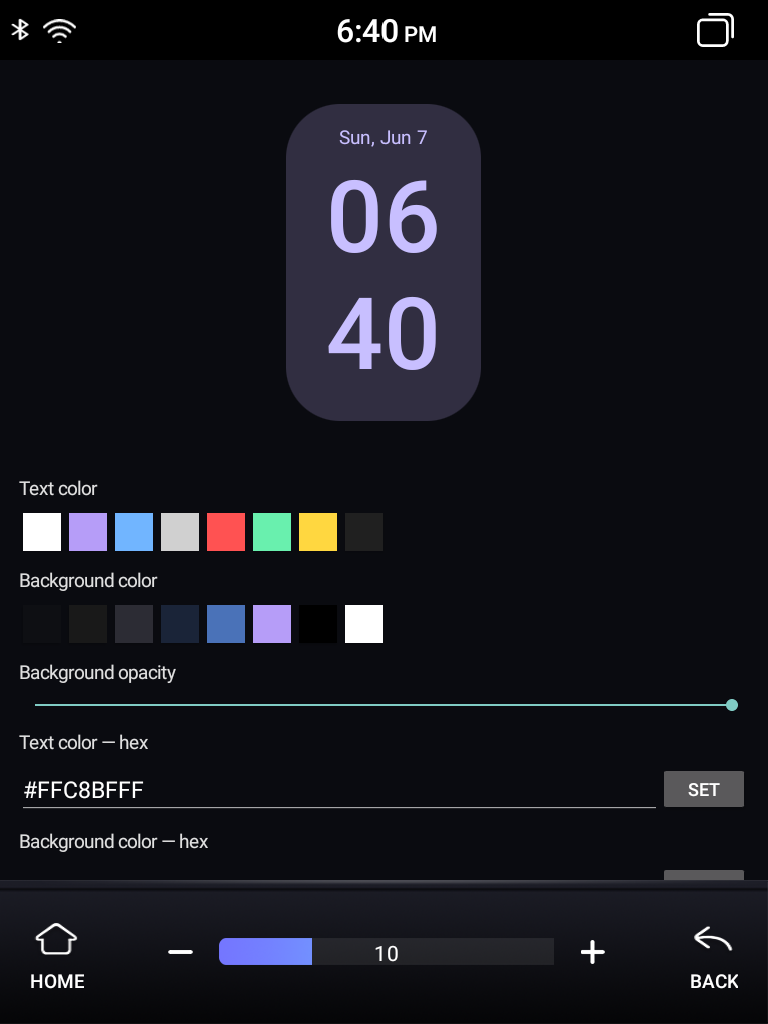
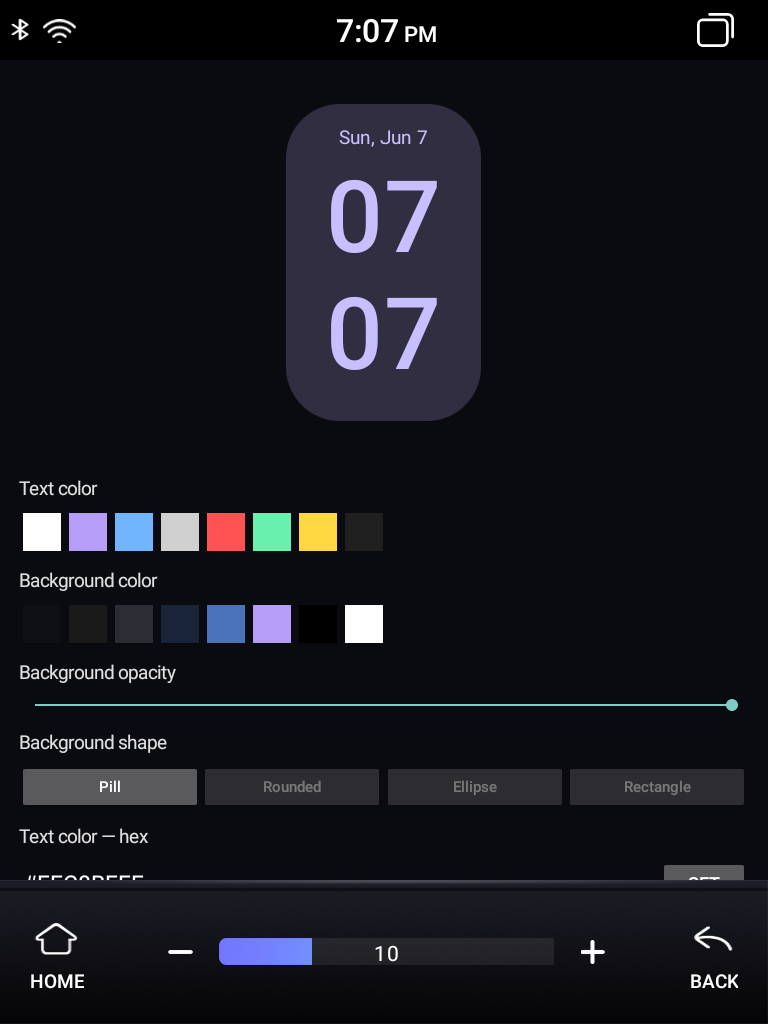
Clock bg shapes + QS brightness gradient + wallpaper & QS docs
- Clock widget: background SHAPE option (Pill/Rounded/Ellipse/Rectangle)
  via PreviewActivity selector + ClockWidget.SHAPES + clock_shape_*.xml.
- SystemUI QS brightness slider: stock solid #41A4F7 blue -> inline
  purple->cyan gradient (#7176FA -> #6CDDFA), pure resource edit; original
  dex preserved. The QS active-tile circle is framework-accent-bound
  (colorAccent via Theme.DeviceDefault.QuickSettings; QSTileBaseView's
  mColorActive/getCircleColor are dead code) so it's deliberately left
  blue - see docs/03-systemui.md "Quick Settings accent".
- Add artifacts/wallpaper/ (7870 home wallpaper: full-res + 768x1024).
- Add artifacts/systemui-qs/brightness_progress_drawable.xml + README.
- Refresh docs (09 clock shapes/hex/picker; 03 QS accent) + screenshots
  (clock_config shape selector, quicksettings brightness gradient).

diff --git a/artifacts/clockwidget/java/com/fyt7862/clock/PreviewActivity.java b/artifacts/clockwidget/java/com/fyt7862/clock/PreviewActivity.java
@@ -21,6 +21,7 @@ public class PreviewActivity extends Activity {
   final int[] bgColors   = {0xFF0E0F13, 0xFF191919, 0xFF2C2C34, 0xFF1A2438, 0xFF4A72B8, 0xFFB69DF8, 0xFF000000, 0xFFFFFFFF};
   ImageView bgView; TextClock h, m, d;
   ColorPickerView picker; boolean pickText = true;
+  Button[] shapeBtns;
 
   int dp(int v){ return (int)(v*getResources().getDisplayMetrics().density + 0.5f); }
   SharedPreferences prefs(){ return ClockWidget.prefs(this); }
@@ -54,6 +55,9 @@ public class PreviewActivity extends Activity {
     root.addView(swatchRow(bgColors, false));
     root.addView(label("Background opacity"));
     root.addView(opacityBar());
+    root.addView(label("Background shape"));
+    root.addView(shapeRow());
+    refreshShapeSel();
     root.addView(label("Text color — hex"));
     root.addView(hexRow(true));
     root.addView(label("Background color — hex"));
@@ -116,6 +120,7 @@ public class PreviewActivity extends Activity {
     int bg = p.getInt("bg", ClockWidget.DEF_BG);
     int a = p.getInt("bga", ClockWidget.DEF_BGA);
     h.setTextColor(t); m.setTextColor(t); d.setTextColor(t);
+    bgView.setImageResource(ClockWidget.SHAPES[ClockWidget.shapeIdx(p)]);
     bgView.setColorFilter(bg, PorterDuff.Mode.SRC_ATOP);
     bgView.setImageAlpha(a);
     ClockWidget.updateAll(this);
@@ -162,6 +167,31 @@ public class PreviewActivity extends Activity {
     bb.setLayoutParams(new LinearLayout.LayoutParams(0,ViewGroup.LayoutParams.WRAP_CONTENT,1f));
     row.addView(bt); row.addView(bb);
     return row;
+  }
+
+  LinearLayout shapeRow(){
+    LinearLayout row = new LinearLayout(this);
+    row.setOrientation(LinearLayout.HORIZONTAL);
+    shapeBtns = new Button[ClockWidget.SHAPE_NAMES.length];
+    for (int i=0;i<ClockWidget.SHAPE_NAMES.length;i++){
+      final int idx = i;
+      Button b = new Button(this);
+      b.setText(ClockWidget.SHAPE_NAMES[i]);
+      b.setAllCaps(false); b.setTextSize(12);
+      b.setPadding(dp(2),0,dp(2),0); b.setMinWidth(0); b.setMinimumWidth(0);
+      b.setOnClickListener(new View.OnClickListener(){ public void onClick(View v){
+        prefs().edit().putInt("shape", idx).apply(); apply(); refreshShapeSel();
+      }});
+      b.setLayoutParams(new LinearLayout.LayoutParams(0,ViewGroup.LayoutParams.WRAP_CONTENT,1f));
+      shapeBtns[i] = b; row.addView(b);
+    }
+    return row;
+  }
+
+  void refreshShapeSel(){
+    if (shapeBtns==null) return;
+    int cur = ClockWidget.shapeIdx(prefs());
+    for (int i=0;i<shapeBtns.length;i++) shapeBtns[i].setAlpha(i==cur?1f:0.45f);
   }
 
   Integer parseHex(String s){

diff --git a/artifacts/clockwidget/java/com/fyt7862/clock/ClockWidget.java b/artifacts/clockwidget/java/com/fyt7862/clock/ClockWidget.java
@@ -10,6 +10,18 @@ public class ClockWidget extends AppWidgetProvider {
   static final int DEF_TEXT = 0xFFC8BFFF;
   static final int DEF_BG   = 0xFF312E41;
   static final int DEF_BGA  = 204;
+  // Background shapes, indexed by the "shape" pref. 0 = pill (default).
+  static final int[] SHAPES = {
+    R.drawable.clock_shape_pill,
+    R.drawable.clock_shape_rounded,
+    R.drawable.clock_shape_ellipse,
+    R.drawable.clock_shape_rect,
+  };
+  static final String[] SHAPE_NAMES = { "Pill", "Rounded", "Ellipse", "Rectangle" };
+  static int shapeIdx(SharedPreferences p) {
+    int s = p.getInt("shape", 0);
+    return (s < 0 || s >= SHAPES.length) ? 0 : s;
+  }
   static SharedPreferences prefs(Context c) { return c.getSharedPreferences("clk", Context.MODE_PRIVATE); }
   static void update(Context ctx, AppWidgetManager mgr, int id) {
     SharedPreferences p = prefs(ctx);
@@ -20,6 +32,7 @@ public class ClockWidget extends AppWidgetProvider {
     v.setTextColor(R.id.hour, textColor);
     v.setTextColor(R.id.minute, textColor);
     v.setTextColor(R.id.date, textColor);
+    v.setImageViewResource(R.id.bg, SHAPES[shapeIdx(p)]);
     v.setInt(R.id.bg, "setColorFilter", bgColor);
     v.setInt(R.id.bg, "setImageAlpha", bgAlpha);
     mgr.updateAppWidget(id, v);

diff --git a/docs/09-clock-widget.md b/docs/09-clock-widget.md
@@ -6,16 +6,19 @@ looks like it and adds a **color picker**.
 
 Source: `artifacts/clockwidget/` (package `com.fyt7862.clock`, label **FYT Clock**).
 
-- **Widget** = three stacked elements on a dark rounded **pill** (`@drawable/clock_pill` ≈ `#CC2C2C34`, r54):
-  hour (`hh`, leading‑zero) over minute (`mm`) at **74sp bold**, over date (`EEE, MMM d`, 15sp) — white, sized
-  + spaced to match the 7870 (which is Deskclock `DigitalStackedAppWidget` + Lawnchair's widget‑bg pill). Cell
-  `minHeight=150dp` so it's tall enough. `TextClock` is `@RemoteView`‑safe and self‑updates (no service/alarm).
-  A `PreviewActivity` (launcher entry) renders it in a dark frame for on‑device preview. Color stays selectable
-  (default white) via the config picker. **Gotcha:** use `format12Hour="hh"` (not `h`) to match the 7870's
-  leading zero; resizing an existing instance needs re‑adding the widget (cell size is fixed at placement).
-- **Config activity** launches when you drop the widget; it shows swatches — **white (default, = the 7870),**
-  slider‑blue `#71B5FF`, red, green, amber, purple — and applies the pick with
-  `RemoteViews.setTextColor` (saved per‑widget in `SharedPreferences`).
+- **Widget** = three stacked elements (date `EEE, MMM d` 15sp over hour `hh` over minute `mm`, both **80sp
+  `sans-serif-medium`**) on a tinted, shaped background `ImageView` (id `bg`). Defaults: lavender text
+  `#C8BFFF` on a purple‑gray pill `#312E41` at ~80% opacity (`setColorFilter` + `setImageAlpha`) — a 7870
+  match. `TextClock` is `@RemoteView`‑safe and self‑updates (no service/alarm). **Gotcha:** use
+  `format12Hour="hh"` (not `h`) for the 7870's leading zero; resizing an instance needs re‑adding it.
+- **Background shape** (`shape` pref → `ClockWidget.SHAPES[]`, applied with `RemoteViews.setImageViewResource`
+  *before* the color filter): **Pill** (r54, default), **Rounded** (r26), **Ellipse** (oval), **Rectangle**
+  (r6). Each is a plain white shape drawable tinted by the bg color, so one set covers every color.
+- **Config / `PreviewActivity`** (launcher entry, live preview in a dark frame): text + background **swatches**,
+  an **opacity** slider, the **shape** selector, free‑form **hex entry** (`#RRGGBB`/`#AARRGGBB`), and a
+  **visual HSV color picker** (`ColorPickerView`) with a Text/Background target toggle. Saved per‑widget in
+  `SharedPreferences`; `ClockWidget.updateAll` re‑renders live (force‑stop `app.lawnchair` if a placed
+  instance doesn't refresh).
 
 ## Build (no Gradle)
 
@@ -31,5 +34,6 @@ adb install -r out/clockwidget.apk
 Long‑press the home screen → **Widgets** → **FYT Clock** → drop it → pick a color in the dialog.
 To recolor later, remove + re‑add (or extend the provider with a tap‑to‑configure intent).
 
-> Extending it: add more swatches in `ConfigActivity.colors`, or swap the date format / font in
+> Extending it: add swatches in `PreviewActivity.textColors`/`bgColors`, a new shape in `ClockWidget.SHAPES`
+> (+ a matching `res/drawable/clock_shape_*.xml`), or swap the date format / font in
 > `res/layout/clock_widget.xml`. Rebuild with `./build.sh`.

diff --git a/docs/03-systemui.md b/docs/03-systemui.md
@@ -61,3 +61,20 @@ same APK, `apktool b` it (SystemUI's aapt2 does *not* segfault), `unzip` the reb
 platform‑sign. First boot is slower (dex2oat). **Gotcha:** never reparent a code‑referenced child of a
 SYU custom `ViewGroup` (e.g. `com.syu.view.VolLayout`) — it casts the child's LayoutParams to the parent
 type in a lifecycle callback → `ClassCastException` crash‑loop. Add new elements as direct siblings.
+
+## Quick Settings accent (the two blues)
+
+Stock SYU QS uses one hardcoded active blue `#41A4F7` in two places:
+
+- **Brightness slider fill** — a baked PNG (`brightness_progress_drawable_p_default.png`, solid `#41A4F7`)
+  referenced by `brightness_progress_drawable.xml`. **Fixed** by swapping the `<clip android:drawable=…png>`
+  for an inline `<clip><shape><gradient>` = the volume‑slider purple→cyan (`#7176FA → #6CDDFA`, thin r5). Pure
+  resource edit — `artifacts/systemui-qs/brightness_progress_drawable.xml`.
+- **Active tile circle** — *not* cleanly fixable, **deliberately left blue**. The fill is
+  `android.R.attr.colorAccent` (`0x1010435`) resolved against the **framework** `Theme.DeviceDefault.QuickSettings`
+  (the `qs_theme` parent) = `#41A4F7`. Overriding `colorAccent`/`colorControlActivated` in `qs_theme` does **not**
+  reach it. `QSTileBaseView.mColorActive`/`getCircleColor` are **dead code** — the `getCircleColor(state)` call in
+  the state handler has no `move-result`, so the value is discarded; patching that field is a verified no‑op. The
+  circle is painted through a SYU path keyed off the framework accent, so changing it needs a `framework-res`
+  `colorAccent` edit (affects every app, bootloop‑risky). The brightness gradient is the dominant, always‑visible
+  blue — fixing that was the win; the circle only shows on active toggles.

diff --git a/artifacts/systemui-qs/README.md b/artifacts/systemui-qs/README.md
@@ -1,0 +1,10 @@
+# SystemUI — Quick Settings
+
+`brightness_progress_drawable.xml` — the QS brightness‑slider fill, recolored from the stock solid
+`#41A4F7` blue (a baked PNG, `brightness_progress_drawable_p_default.png`) to an inline purple→cyan
+gradient (`#7176FA → #6CDDFA`, the volume‑slider accent). Drop into `res/drawable/` of the SystemUI
+`-s` decode and rebuild (see `docs/03-systemui.md` → "Quick Settings accent").
+
+The QS *active‑tile circle* is the same `#41A4F7`, but it's framework‑accent‑bound (`colorAccent` via
+the framework `Theme.DeviceDefault.QuickSettings`) and was deliberately left as‑is — patching it cleanly
+isn't possible without a `framework-res` edit. See the doc for the full trace.

diff --git a/artifacts/wallpaper/README.md b/artifacts/wallpaper/README.md
@@ -1,0 +1,10 @@
+# Wallpaper
+
+The home wallpaper cloned from the 7870 onto the 7862.
+
+| File | What |
+|---|---|
+| `wallpaper_7870_1536x2048.png` | Full‑res source (the 7870's original) — on device as `/sdcard/Pictures/wallpaper_from_7870.png` |
+| `wallpaper_7870_768x1024.png` | Resized to the 7862 panel (768×1024) |
+
+Apply via Settings → Wallpaper or Lawnchair's picker. No root needed — it's a normal wallpaper.